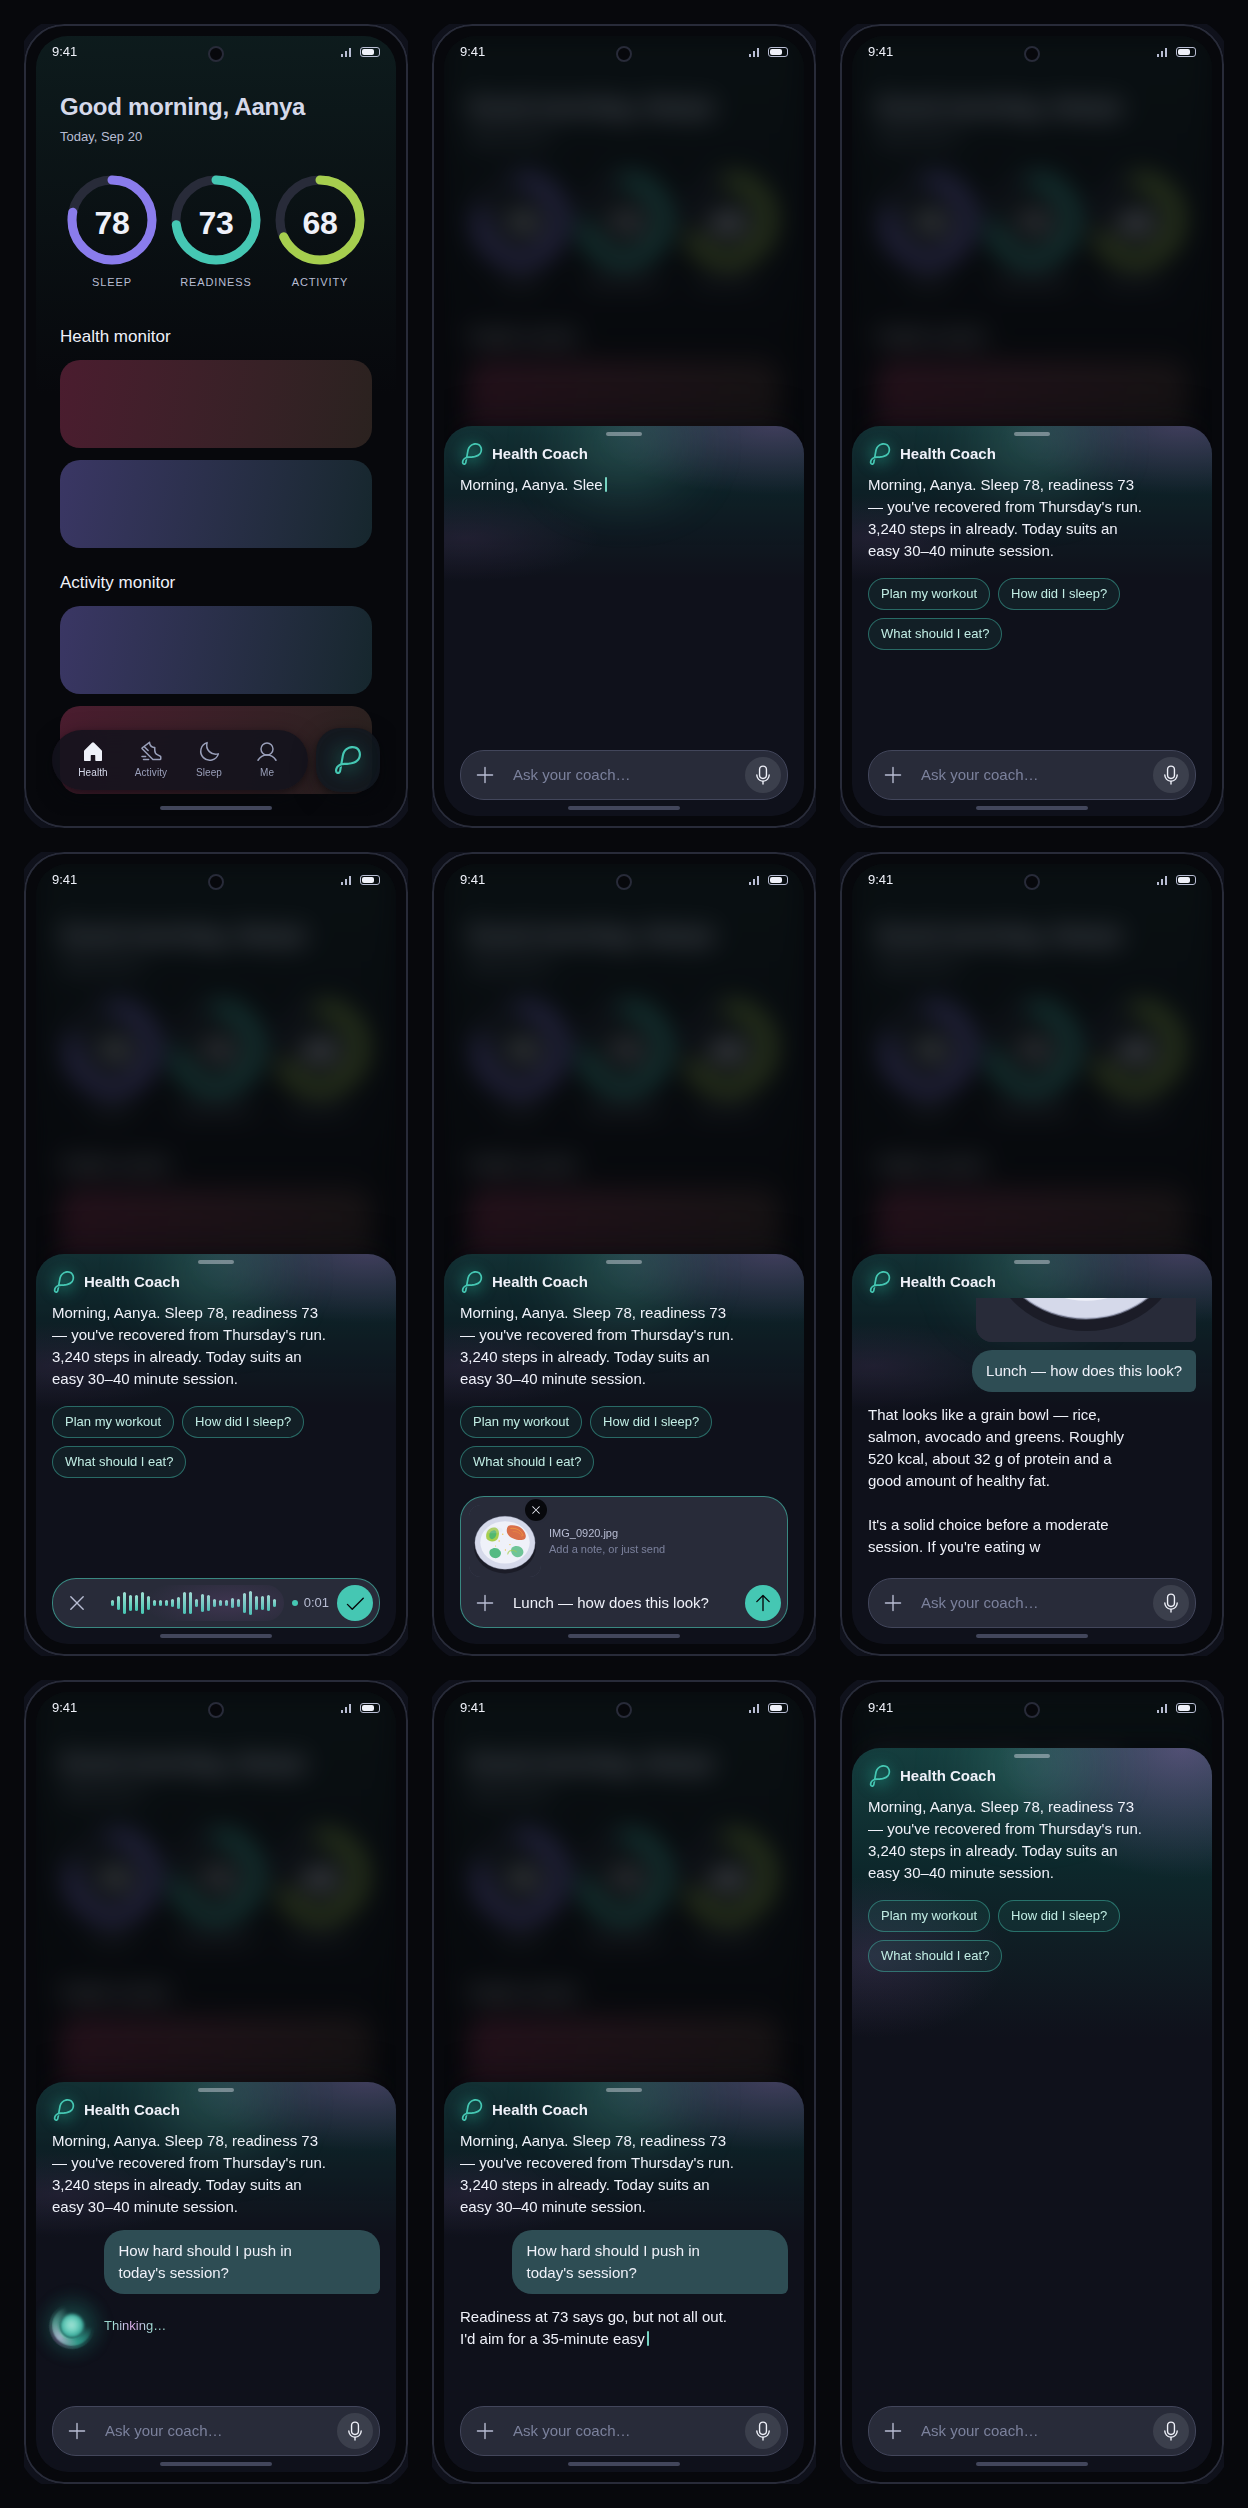
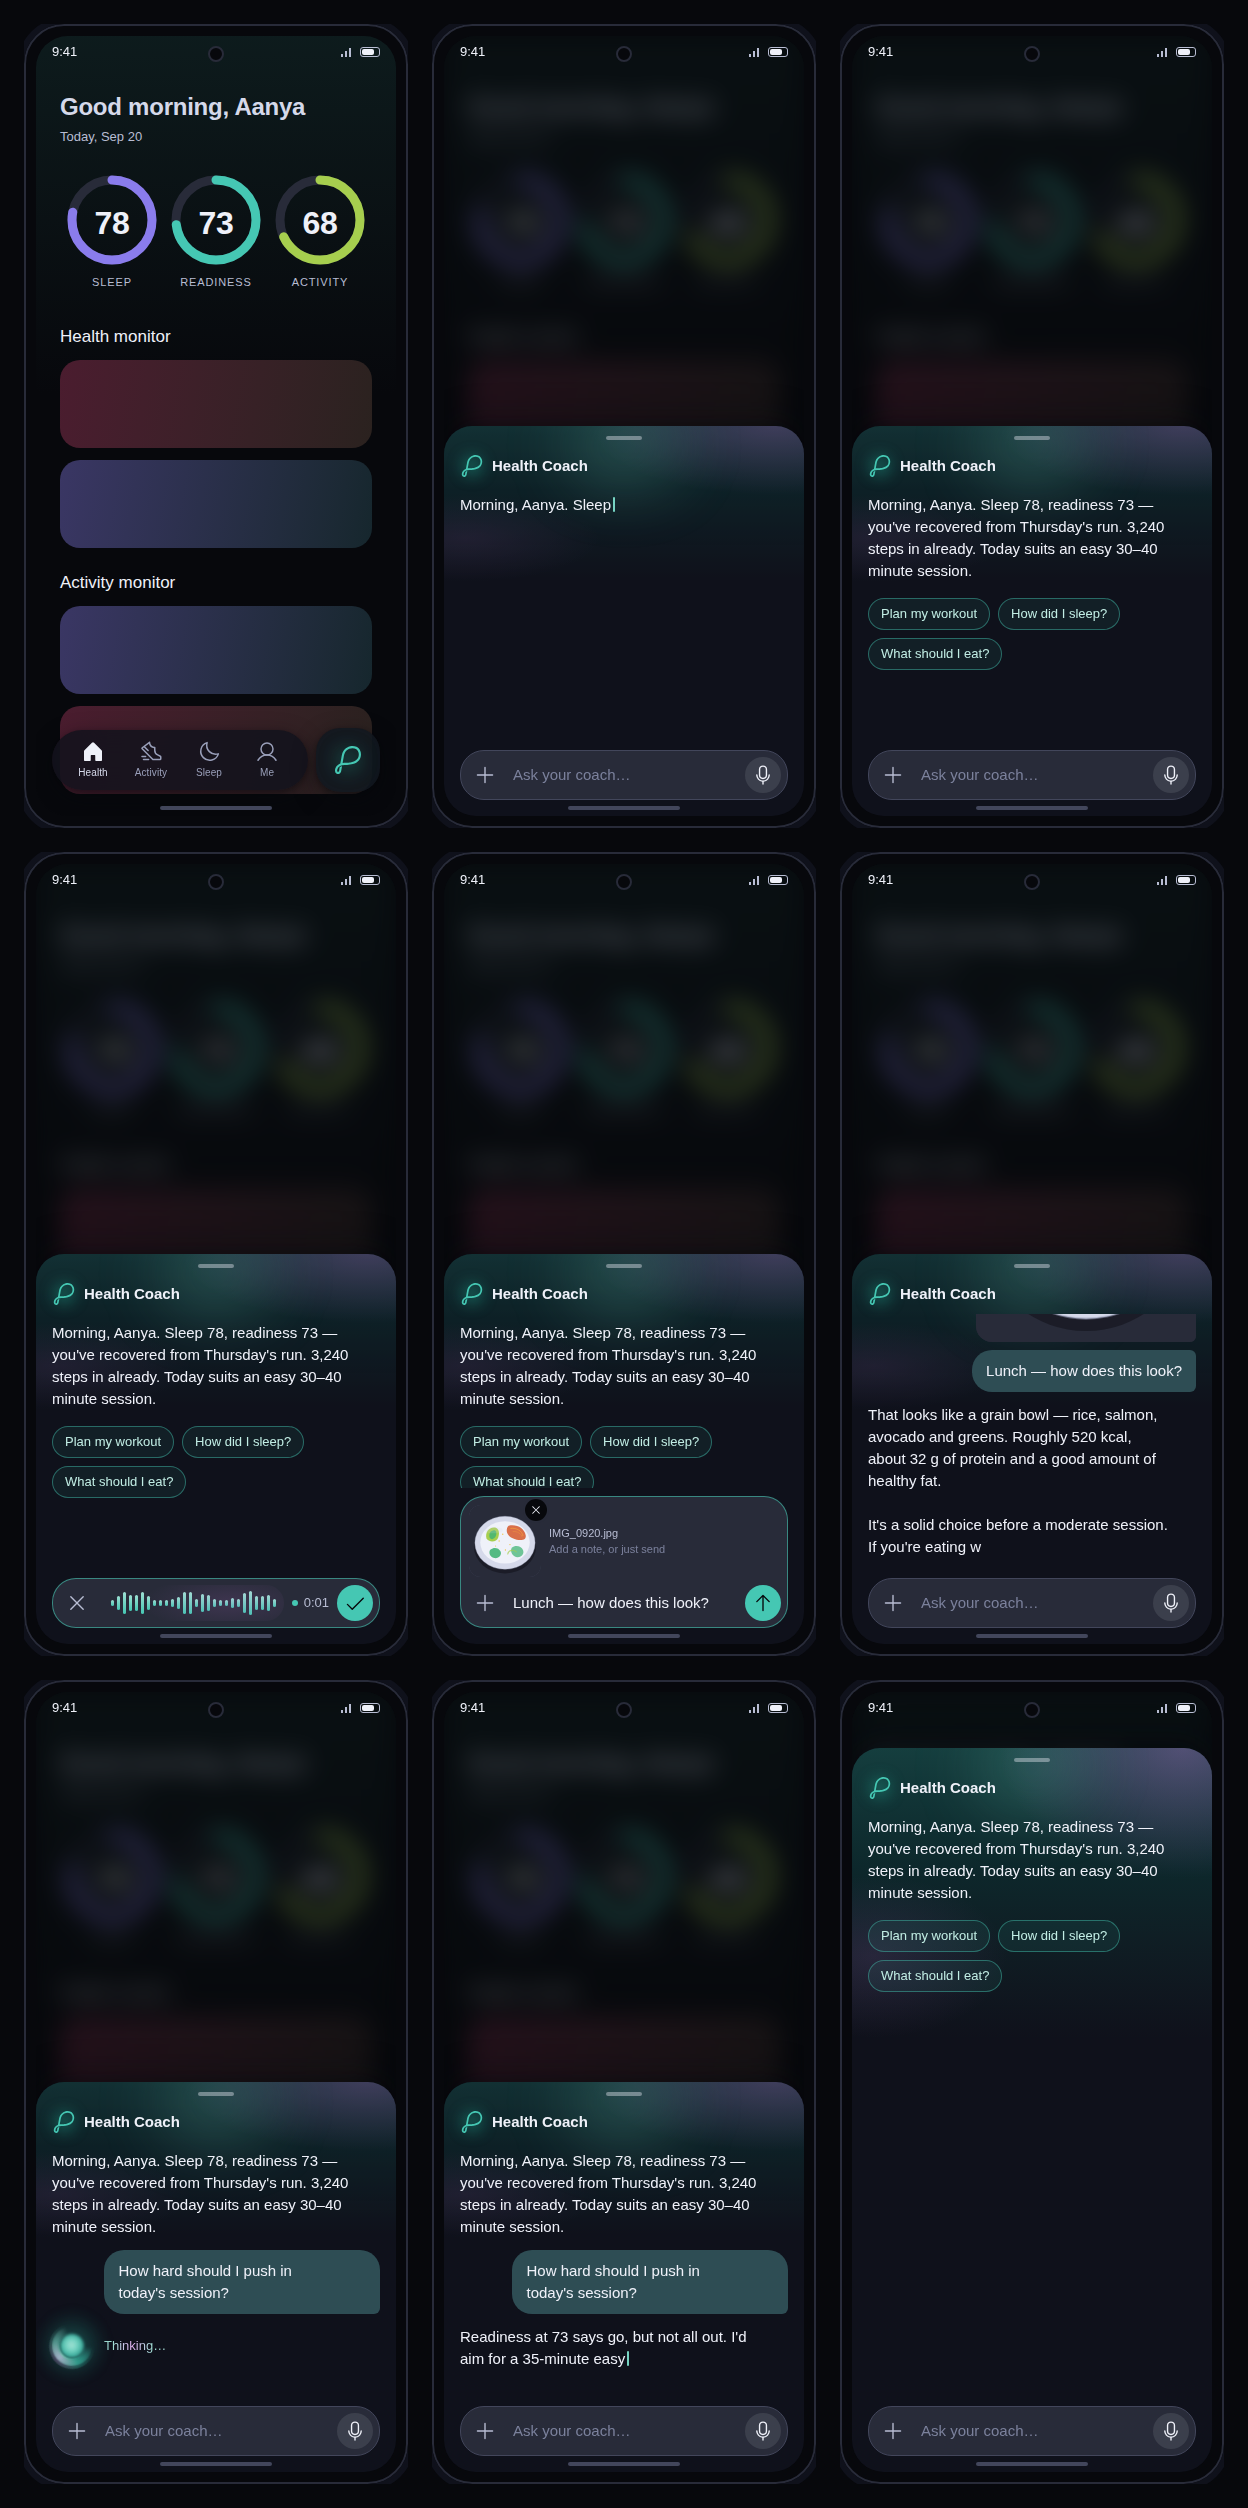
Give the Health Coach header air and widen the coach's text
Header grows to 60px as empty space: handle pushed down, more room
between handle and name, 8px below. Replies start at least 16px under
the header. The coach's text runs to within 32px of the right edge
instead of capping at 84% of the width.

Claude-Session: https://claude.ai/code/session_01UN768iFaLiBkN9h35ZSA5W

diff --git a/AI Coach/ai-coach.html b/AI Coach/ai-coach.html
@@ -334,15 +334,18 @@ body{
    and the close button removed — a 36px filled circle no longer balanced a
    22px mark on a one-line header. Closing is the handle (drag or flick
    down), a tap on the scrim, or Esc. FLAG: with no visible close control the
-   sheet leans on the handle being understood; a native sheet does the same. */
+   sheet leans on the handle being understood; a native sheet does the same.
+   Owner round 3 (2026-09-21): the header gets its air back as empty space —
+   10px above the handle, 14px between handle and the name line, 8px below —
+   60px in all, without the date line coming back. */
 .ai-head{
   position:relative;z-index:2;flex:none;
-  padding:6px var(--space-16) var(--space-4);
+  padding:10px var(--space-16) var(--space-8);
   touch-action:none;cursor:grab;user-select:none;-webkit-user-select:none;
 }
 .ai-head:active{cursor:grabbing}
 .ai-handle{
-  display:block;width:36px;height:4px;margin:0 auto 6px;
+  display:block;width:36px;height:4px;margin:0 auto 14px;
   border-radius:var(--radius-full);
   background:color-mix(in srgb, var(--neutral-0) 40%, transparent);
 }
@@ -426,15 +429,20 @@ body{
 @keyframes orb-pulse{0%,100%{transform:scale(1)}50%{transform:scale(1.12)}}
 
 /* ---- the conversation ---- */
+/* Owner round 3: at least 8px between the header and the first line of a
+   reply — 8px here on top of the header's own 8px below the name. */
 .ai-log{
   position:relative;z-index:1;flex:1;min-height:0;overflow-y:auto;scrollbar-width:none;
-  padding:var(--space-4) var(--space-16) var(--space-12);
+  padding:var(--space-8) var(--space-16) var(--space-12);
   display:flex;flex-direction:column;gap:var(--space-12);
   overscroll-behavior:contain;
 }
 .ai-log::-webkit-scrollbar{display:none}
 .msg{max-width:84%;display:flex;flex-direction:column;gap:var(--space-8)}
-.msg.ai{align-self:flex-start}
+/* Owner round 3: the coach's words run nearly the full width — the gap on
+   the right is at most twice the 16px gutter (16px log padding + 16px here),
+   not the 84% cap the user bubble keeps. */
+.msg.ai{align-self:flex-start;max-width:calc(100% - var(--space-16))}
 .msg.user{align-self:flex-end;align-items:flex-end}
 /* the coach speaks straight onto the sheet — no bubble around its words, so
    long answers don't become a wall of boxes; the user's turn is the bubble */

diff --git a/docs/feature-ai-coach.md b/docs/feature-ai-coach.md
@@ -1,6 +1,6 @@
 # Feature: AI coach chat
 
-Rev 1.2 — prototype built 2026-09-20 to the owner's brief; owner rounds 1 and 2
+Rev 1.3 — prototype built 2026-09-20 to the owner's brief; owner rounds 1–3
 folded in (2026-09-20 / 21). UX not yet approved.
 Prototype: `AI Coach/ai-coach.html` (opens by double-clicking).
 
@@ -39,9 +39,11 @@ sheet between half and full height, or away.
 - Sheet geometry is one custom property `--sheet-h`; half = 50% of the
   screen (390px), full = screen − 56px. Pointer events on the header do the drag;
   release snaps by position and velocity.
-- The sheet header is one 40px line: the Pebble logomark (with the dock's
-  glow behind it) and "Health Coach". No date line, no close button; the
-  handle, the scrim and Esc close.
+- The sheet header is 60px: 10px, handle, 14px, one 24px line with the
+  Pebble logomark (the dock's glow behind it) and "Health Coach", 8px. No
+  date line, no close button; the handle, the scrim and Esc close. Replies
+  start at least 16px below it. The coach's text runs to within 32px of the
+  right edge; the user's bubble caps at 84%.
 - The coach's presence is the Measure All orb (halo, two counter-rotating
   crescents, core) at avatar scale, on CSS keyframes, in the thinking row of
   each reply. The second crescent carries the orchid hint.

diff --git a/memory/changelog.md b/memory/changelog.md
@@ -5,6 +5,14 @@ meaningful change. Format: `[date] — what changed — why/notes`
 
 ---
 
+- 2026-09-21 (rev 1.3) — Owner round 3 on the Health Coach header and text
+  measure. Header back up to 60px but as empty space, not content: 10px above
+  the handle (handle pushed down), 14px between handle and the name line, 8px
+  below. Log gets 8px top padding so a reply never starts closer than 16px to
+  the header. The coach's text now runs to within 32px of the right edge (log
+  padding 16 + 16 max-width allowance) instead of the 84% cap, which left a
+  third of the line empty; the user bubble keeps 84%. Artifact republished.
+
 - 2026-09-21 (rev 1.2) — Owner round 2 on the AI coach chat, seven asks.
   (1) "Pebble AI" → "Health Coach" everywhere user-facing (sheet title, the
   dock unit's label, the page title). (2) The header orb replaced by the
